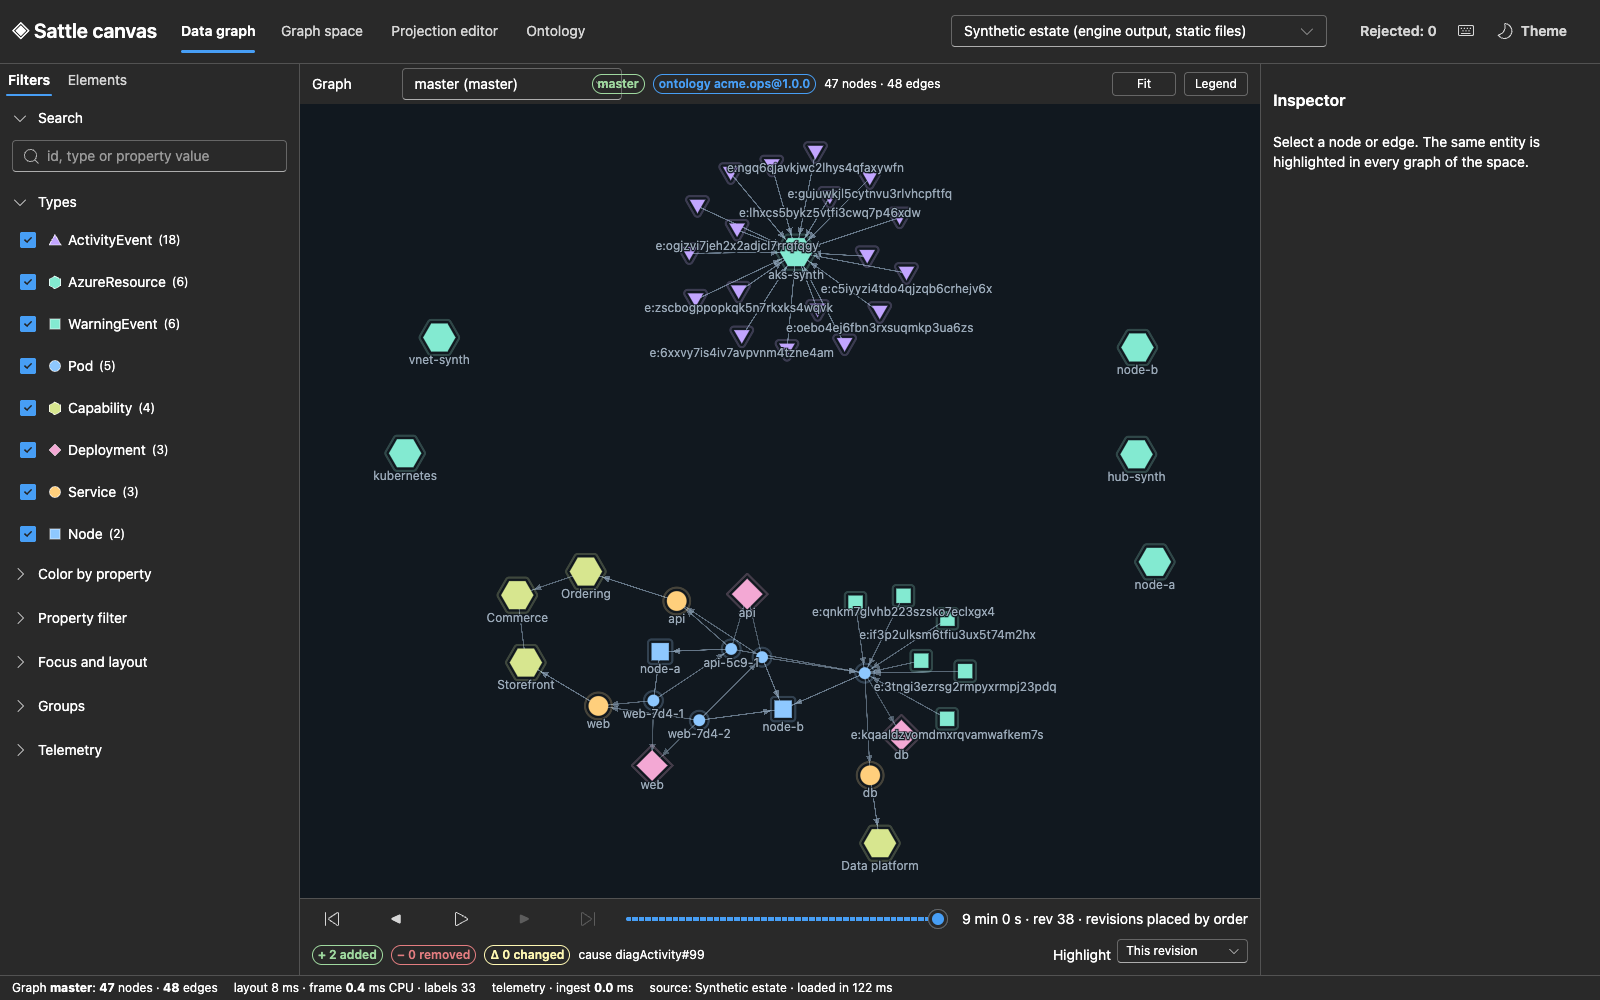
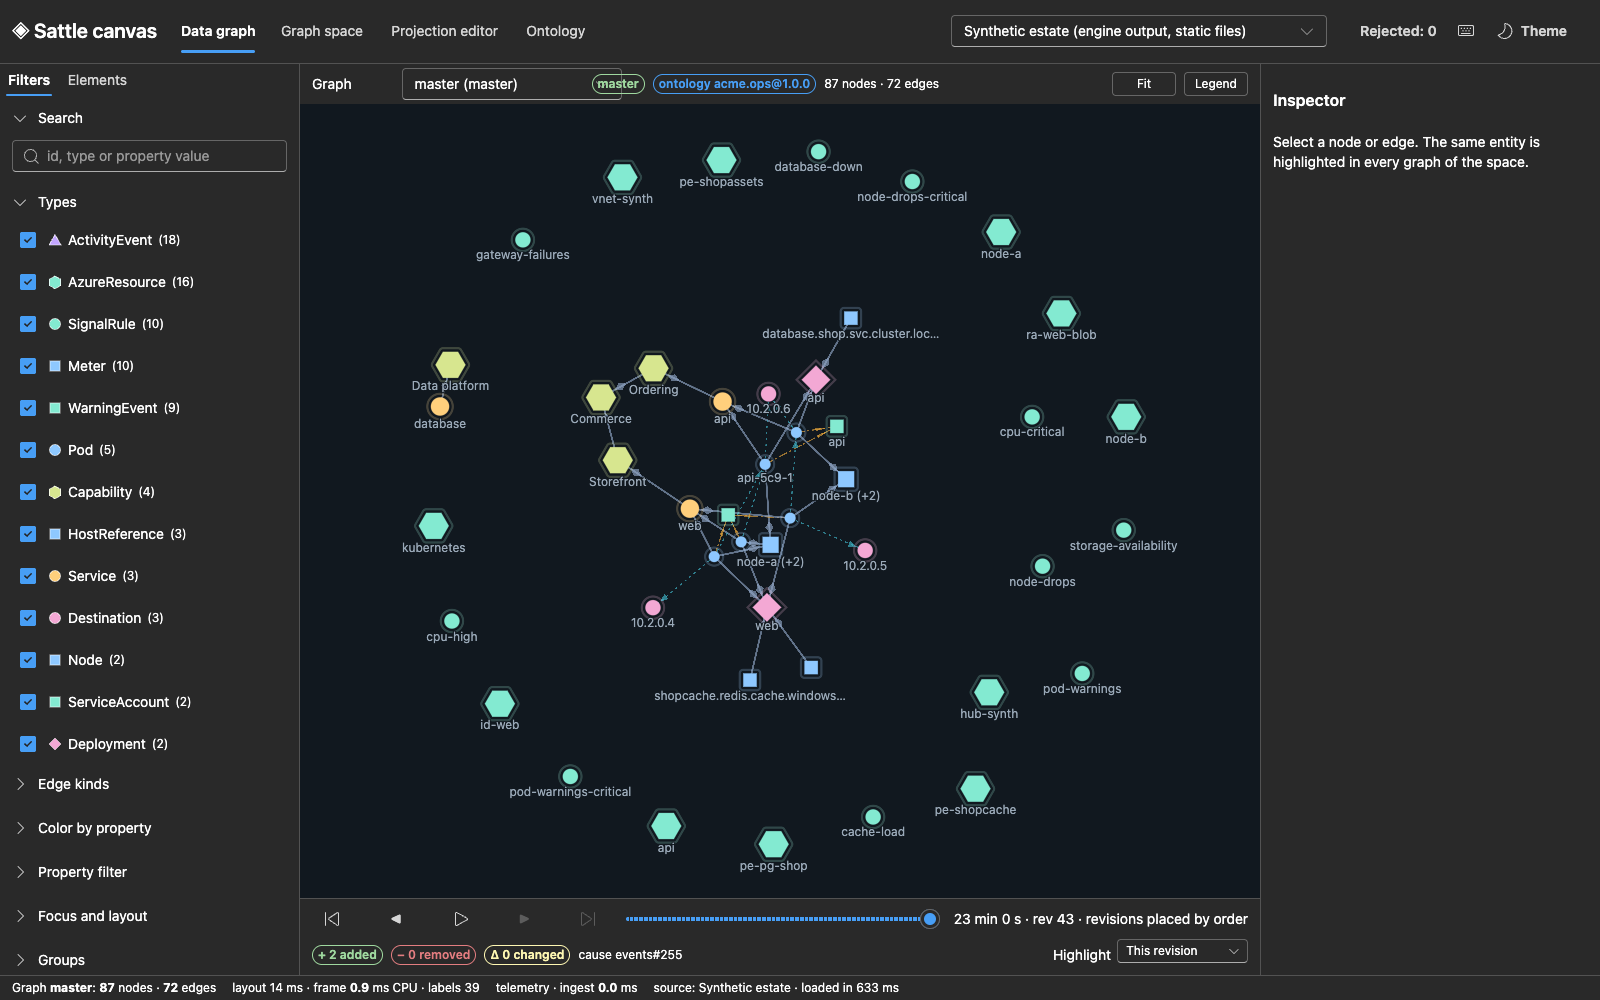
README: portfolio on the workload model, screenshots retaken on the synthetic estate

diff --git a/README.md b/README.md
@@ -32,7 +32,7 @@ flowchart LR
   S["Sources<br/>Azure, Kubernetes,<br/>flows, metrics, events"] --> M["Master graph<br/>one per graph space"]
   M --> P1["Projection<br/>services and their calls"]
   P1 --> P2["Projection<br/>capabilities"]
-  M --> H["Projection chain<br/>health model with roll-up"]
+  M --> H["Workload model<br/>structure, then health with roll-up"]
   P1 --> H
   H --> D["Document projection<br/>report"]
   C["Catalog graph<br/>ontologies and projections<br/>as graphs"] -.defines.-> P1
@@ -42,8 +42,8 @@ flowchart LR
   class S,M,P1,P2,H,D,C box;
 ```
 
-- An edge between two lower-level nodes becomes an edge between their higher-level images. The language has one statement for that, [`lift`](engine/definitions/acme.svc.sattle#L55).
-- Health is not built into the engine. It is an ontology and a few projections: [`acme.health`](engine/definitions/acme.health.sattle), [`acme.healthmodel`](engine/definitions/acme.healthmodel.sattle).
+- An edge between two lower-level nodes becomes an edge between their higher-level images. The language has one statement for that, [`lift`](engine/definitions/acme.svc.sattle#L56).
+- Health is not built into the engine. It is an ontology and two projections: [`acme.workload`](engine/definitions/acme.workload.sattle).
 
 ## Portfolio
 
@@ -62,7 +62,7 @@ All screenshots show the synthetic estate that ships with the repository ([gener
 ![Service tree](docs/screenshots/service-tree.png)
 
 - Pod-to-pod calls lifted to service-to-service dependencies, with flows summed per pair.
-- Definition: [`serviceDeps` in `acme.svc`](engine/definitions/acme.svc.sattle#L29), the `lift` statement at [line 55](engine/definitions/acme.svc.sattle#L55).
+- Definition: [`serviceDeps` in `acme.svc`](engine/definitions/acme.svc.sattle#L30), the `lift` statement at [line 56](engine/definitions/acme.svc.sattle#L56).
 - Theory: edge lifting as a quotient in [Ch. 5](paper/ch05-projection-language.md).
 
 ### 3. One level higher: capabilities
@@ -70,22 +70,30 @@ All screenshots show the synthetic estate that ships with the repository ([gener
 ![Capabilities](docs/screenshots/capabilities.png)
 
 - Service dependencies lifted again to the business capabilities the services realize.
-- Definition: [`capabilityView` in `acme.biz`](engine/definitions/acme.biz.sattle#L21), lifted at [line 52](engine/definitions/acme.biz.sattle#L52).
+- Definition: [`capabilityView` in `acme.biz`](engine/definitions/acme.biz.sattle#L22), lifted at [line 53](engine/definitions/acme.biz.sattle#L53).
 
-### 4. A health model with roll-up
+### 4. What a workload is made of and depends on
 
-![Health model as a graph](docs/screenshots/health-graph.png)
+![Workload structure](docs/screenshots/workload-structure.png)
 
-- Components, signals with thresholds, and a state per component. Here one service is degraded by its own signal, and the roll-up carries that to its dependants and to the workload.
-- Colors come from value roles declared in the ontology ([`acme.health`](engine/definitions/acme.health.sattle#L7)), not from code in the viewer.
-- Four stacked projections: [`topology`](engine/definitions/acme.healthmodel.sattle#L11), [`signals`](engine/definitions/acme.healthmodel.sattle#L83), [`state`](engine/definitions/acme.healthmodel.sattle#L173), [`health`](engine/definitions/acme.healthmodel.sattle#L202).
+- The question it answers: what is my workload made of, what does it talk to, and what does each part depend on?
+- Top to bottom: the workload, its services, their deployments and pods, the nodes, pool and cluster they run on. To the right: the cache, the storage account and the database server a service depends on, each reached through its private endpoint and the network. To the left: the gateway that exposes a service.
+- Three kinds of edges, declared in the ontology and drawn differently: composition, dependency, communication ([lines 37 to 57](engine/definitions/acme.workload.sattle#L37)).
+- Every dependency is derived from data and carries its evidence: flows to a private endpoint's address, a resolved host name, a role of the pod's identity, an environment variable, calls between pods, a gateway backend. Definition: [`workloadStructure`](engine/definitions/acme.workload.sattle#L65).
+
+### 5. Its health, and which part is to blame
+
+![Workload health with the database server down](docs/screenshots/workload-health.png)
+
+- The question it answers: is my workload healthy, and if not, which part is to blame?
+- Here the database server is down. The path from the workload to the origin is drawn in red; the origin carries a flag. A crash-looping pod is a second, smaller origin: its deployment stays healthy because two of three pods are.
+- A component's state is the worst severity over what it contains and what it depends on. Signals are meters read against authored rules; a meter that stops reporting becomes "no data", which is a state of its own. Definition: [`workloadHealth`](engine/definitions/acme.workload.sattle#L295).
+- Colors come from value roles declared in the ontology ([line 14](engine/definitions/acme.workload.sattle#L14)), not from code in the viewer.
 - Theory: [Ch. 7, the telemetry plane](paper/ch07-telemetry-plane.md).
 
-### 5. The same model as a tree
+![The same state as a tree of causes](docs/screenshots/workload-tree.png)
 
-![Health model as a tree](docs/screenshots/health-tree.png)
-
-- One row per component with its state, what changed in this revision, and how many supporting elements and links it has.
+- The tree follows the relation the state was computed from. Each row says through which part it is unhealthy; the origin is marked.
 - Code: [`tree-model.ts`](canvas/src/app/tree-model.ts), [`TreeView.tsx`](canvas/src/ui/TreeView.tsx).
 
 ### 6. A document is a projection too
@@ -93,8 +101,8 @@ All screenshots show the synthetic estate that ships with the repository ([gener
 ![Report document](docs/screenshots/report-document.png)
 
 - A report rendered from a graph of document blocks, with a digest per revision.
-- Definition: [`deploymentReport`](engine/definitions/acme.report.sattle#L7) into the ontology [`sattle.doc`](engine/definitions/sattle.doc.sattle). Renderer: [`Documents.cs`](engine/src/Sattle.Runtime/Documents.cs).
-- A smaller health example with value roles: [`deploymentHealth`](engine/definitions/acme.deployhealth.sattle#L18).
+- Definition: [`deploymentReport`](engine/definitions/acme.report.sattle#L8) into the ontology [`sattle.doc`](engine/definitions/sattle.doc.sattle). Renderer: [`Documents.cs`](engine/src/Sattle.Runtime/Documents.cs).
+- A smaller health example with value roles: [`deploymentHealth`](engine/definitions/acme.deployhealth.sattle#L19).
 
 ### 7. Editing a projection as a graph
 
@@ -103,7 +111,7 @@ All screenshots show the synthetic estate that ships with the repository ([gener
 - Every operator kind can be built without typing text. The editor changes a draft on the engine, which checks every step.
 - The cards and the palette are generated from the engine's own description of the language ([`Kernel.cs`](engine/src/Sattle.Core/Kernel.cs), served as `/palette`, see [PROTOCOL.md](engine/PROTOCOL.md#checking-and-editing-definitions)).
 - Code: [`EditorView.tsx`](canvas/src/ui/EditorView.tsx), [`EditorCanvas.tsx`](canvas/src/ui/editor/EditorCanvas.tsx), [`commands.ts`](canvas/src/editor/commands.ts).
-- Recorded editing sessions that rebuild real projections and compare them with the originals: [`lift-service-tree`](canvas/tests/walkthroughs/lift-service-tree.json), [`health-rollup`](canvas/tests/walkthroughs/health-rollup.json), run by [`walkthroughs-cdp.mjs`](canvas/scripts/walkthroughs-cdp.mjs).
+- Recorded editing sessions that rebuild real projections and compare them with the originals: [`lift-service-tree`](canvas/tests/walkthroughs/lift-service-tree.json), [`workload-health`](canvas/tests/walkthroughs/workload-health.json), run by [`walkthroughs-cdp.mjs`](canvas/scripts/walkthroughs-cdp.mjs).
 
 ### 8. Ontologies are graphs
 
@@ -161,9 +169,9 @@ Research notes behind the paper:
 
 Definitions, all plain text and all loaded as graphs:
 
-- Ontologies: [`sattle.infra`](engine/definitions/sattle.infra.sattle), [`sattle.azure`](engine/definitions/sattle.azure.sattle), [`sattle.doc`](engine/definitions/sattle.doc.sattle), [`acme.health`](engine/definitions/acme.health.sattle).
+- Ontologies: [`sattle.infra`](engine/definitions/sattle.infra.sattle), [`sattle.azure`](engine/definitions/sattle.azure.sattle), [`sattle.doc`](engine/definitions/sattle.doc.sattle).
 - Source row types: [Kubernetes](engine/definitions/sattle.source.k8s.sattle), [Hubble flows](engine/definitions/sattle.source.hubble.sattle), [Prometheus](engine/definitions/sattle.source.prometheus.sattle), [Azure](engine/definitions/sattle.source.azure.sattle).
-- Projections: [`acme.ops`](engine/definitions/acme.ops.sattle) (master), [`acme.svc`](engine/definitions/acme.svc.sattle), [`acme.biz`](engine/definitions/acme.biz.sattle), [`acme.deployhealth`](engine/definitions/acme.deployhealth.sattle), [`acme.healthmodel`](engine/definitions/acme.healthmodel.sattle), [`acme.report`](engine/definitions/acme.report.sattle).
+- Projections: [`acme.ops`](engine/definitions/acme.ops.sattle) (master), [`acme.svc`](engine/definitions/acme.svc.sattle), [`acme.biz`](engine/definitions/acme.biz.sattle), [`acme.deployhealth`](engine/definitions/acme.deployhealth.sattle), [`acme.workload`](engine/definitions/acme.workload.sattle), [`acme.report`](engine/definitions/acme.report.sattle).
 - The graph space that binds them: [`acme.space`](engine/definitions/acme.space.sattle).
 
 How it is tested:
